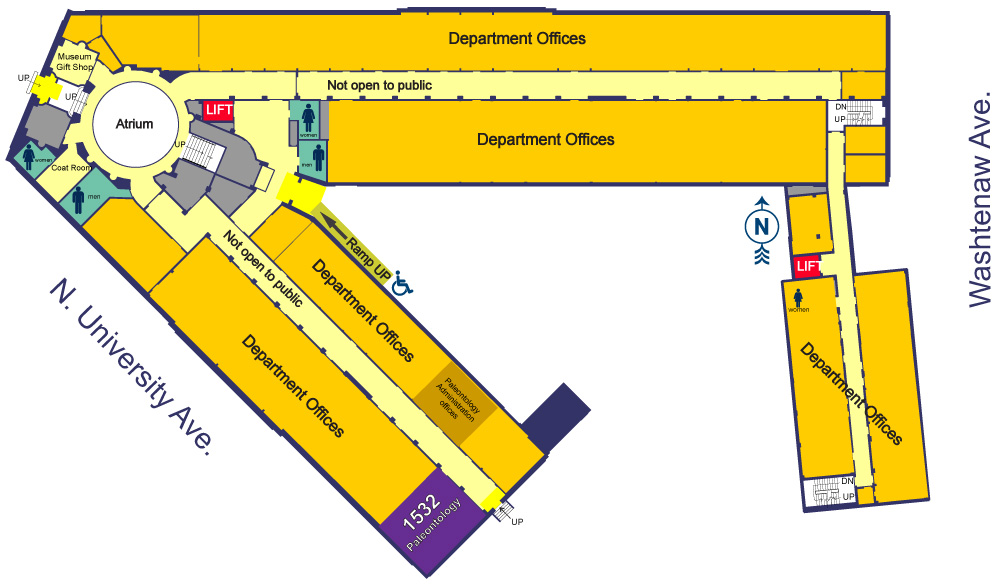
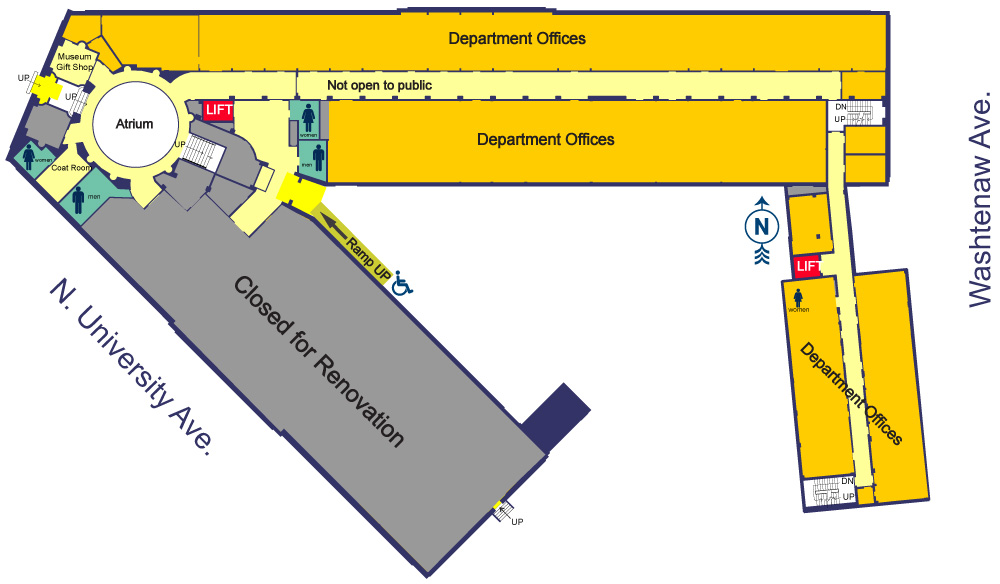
UPDATE: Maps

Changed region(s): [[0.062, 0.3082, 0.558, 0.9863]]

diff --git a/public/maps/agrmu2.html b/public/maps/agrmu2.html
@@ -12,18 +12,16 @@ img{z-index:-1; margin:1%; width:1000px;}
 <body>
 <p class="text" style="margin-top:205px; margin-left:375px; text-align:center;">Alexander G. Ruthven Museum<br>first floor</p>
 <div class="text" style="margin-top:275px; margin-left:500px;">
-<a href="agrmu1.html" tabindex="8" alt="link to the 1st floor" title="link to the 1st floor">first floor</a><br>
-<a href="index.html" tabindex="9" alt="link to central campus" title="link to central campus">central campus</a>
+<a href="agrmu1.html" tabindex="6" alt="link to the 1st floor" title="link to the 1st floor">first floor</a><br>
+<a href="index.html" tabindex="7" alt="link to central campus" title="link to central campus">central campus</a>
 </div>
 <img src="agrmu2.jpg" alt="Ruthven Museum" usemap="#agrmu2" />
 <map name="agrmu2" id="agrmu2">
   <area shape="rect" coords="131,16,267,88" href="../classrooms/AGRMU2009" tabindex="1" alt="link to the data for room 2009" title="link to the data for room 2009" />
   <area shape="rect" coords="267,15,351,88" href="../classrooms/AGRMU2015" tabindex="2" alt="link to the data for room 2015" title="link to the data for room 2015" />
-  <area shape="rect" coords="392,16,503,86" href="../classrooms/AGRMU2021" tabindex="3" alt="link to the data for room 2021" title="link to the data for room 2021" />
-  <area shape="rect" coords="503,16,603,85" href="../classrooms/AGRMU2031" tabindex="4" alt="link to the data for room 2031" title="link to the data for room 2031" />
-  <area shape="rect" coords="665,96,764,195" href="../classrooms/AGRMU2040" tabindex="5" alt="link to the data for room 2040" title="link to the data for room 2040" />
-  <area shape="rect" coords="764,97,862,194" href="../classrooms/AGRMU2044" tabindex="6" alt="link to the data for room 2044" title="link to the data for room 2044" />
-  <area shape="rect" coords="821,10,905,87" href="../classrooms/AGRMU2047" tabindex="7" alt="link to the data for room 2047" title="link to the data for room 2047" />
+  <area shape="rect" coords="665,96,764,195" href="../classrooms/AGRMU2040" tabindex="3" alt="link to the data for room 2040" title="link to the data for room 2040" />
+  <area shape="rect" coords="764,97,862,194" href="../classrooms/AGRMU2044" tabindex="4" alt="link to the data for room 2044" title="link to the data for room 2044" />
+  <area shape="rect" coords="821,10,905,87" href="../classrooms/AGRMU2047" tabindex="5" alt="link to the data for room 2047" title="link to the data for room 2047" />
 </map>
 </body>
 </html>

diff --git a/public/maps/agrmu1.html b/public/maps/agrmu1.html
@@ -17,8 +17,5 @@ img{z-index:-1; margin:1%; width:1000px;}
 <a href="index.html" alt="link to central campus" tabindex="3" title="link to central campus">central campus</a>
 </div>
 <img src="agrmu1.jpg" title="image Ruthven 1st floor" alt="image Ruthven 1st floor" usemap="#agrmu1" />
-<map name="agrmu1" id="agrmu1">
-  <area shape="poly" coords="442,459,503,516,428,587,365,535" href="../classrooms/AGRMU1532" tabindex="1" alt="Link to the data for room 1532" title="Link to the data for room 1532" />
-</map>
 </body>
 </html>
